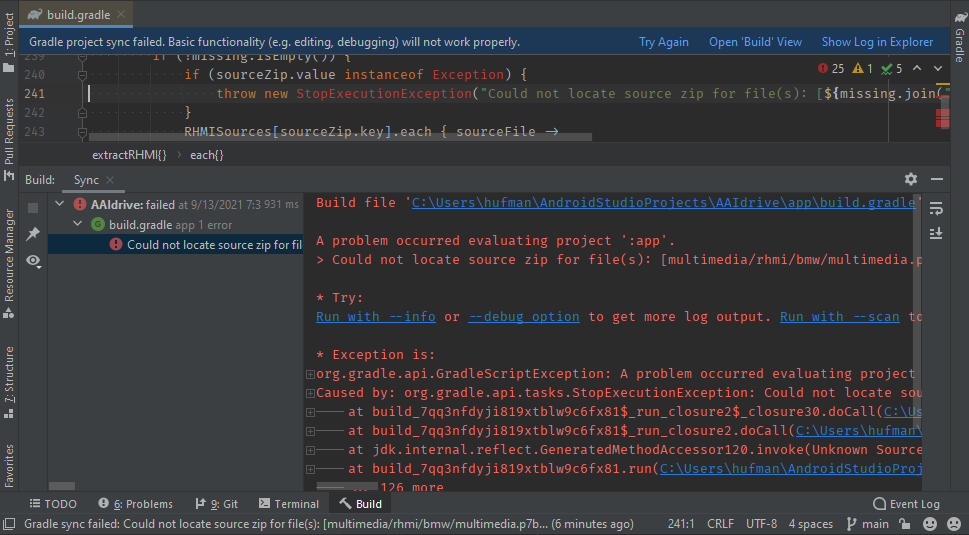
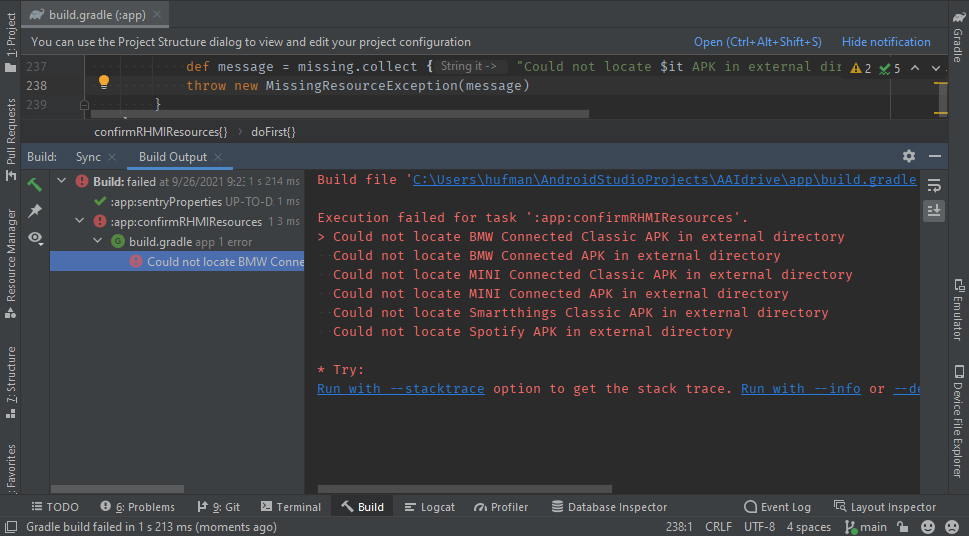
Defers validating RHMI resources until build time

diff --git a/docs/developers.md b/docs/developers.md
@@ -34,7 +34,7 @@ These API keys can be set directly in the gradle.properties in the repository, b
 
     ![Import Project Wizard](images/developer-repourl.png)
 
-    - Gradle will complain about the missing external APKs, so copy the APKs from the preparation steps to the `externals` folder of the project and tell Android Studio to Try Again to sync the Gradle files
+    - Next, copy the APKs from the preparation steps to the `externals` folder of the project. If you try to build without them, you would receive the following error:
 
     ![External Dependencies Missing Error](images/developer-externalmissing.png)
 
